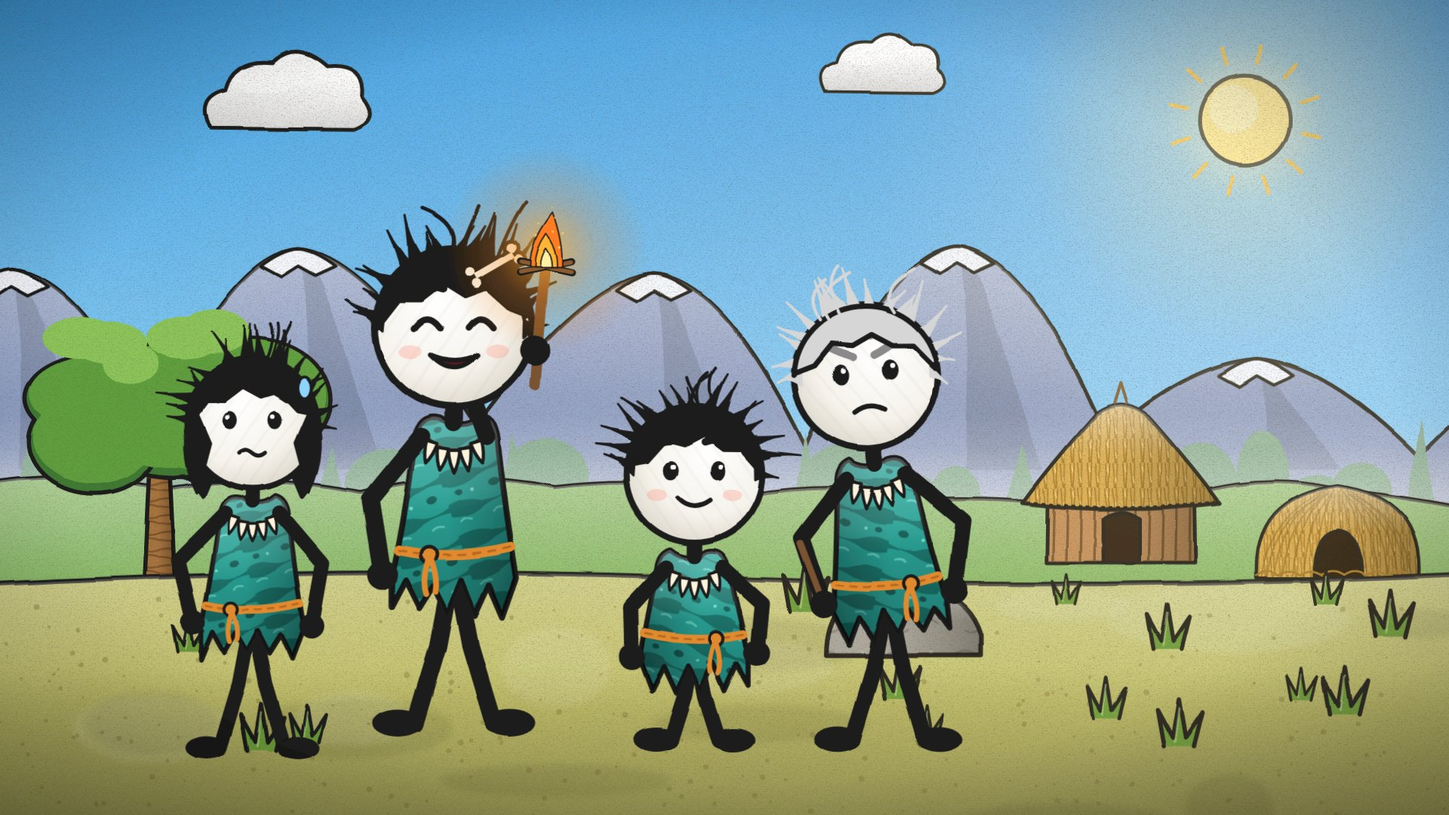
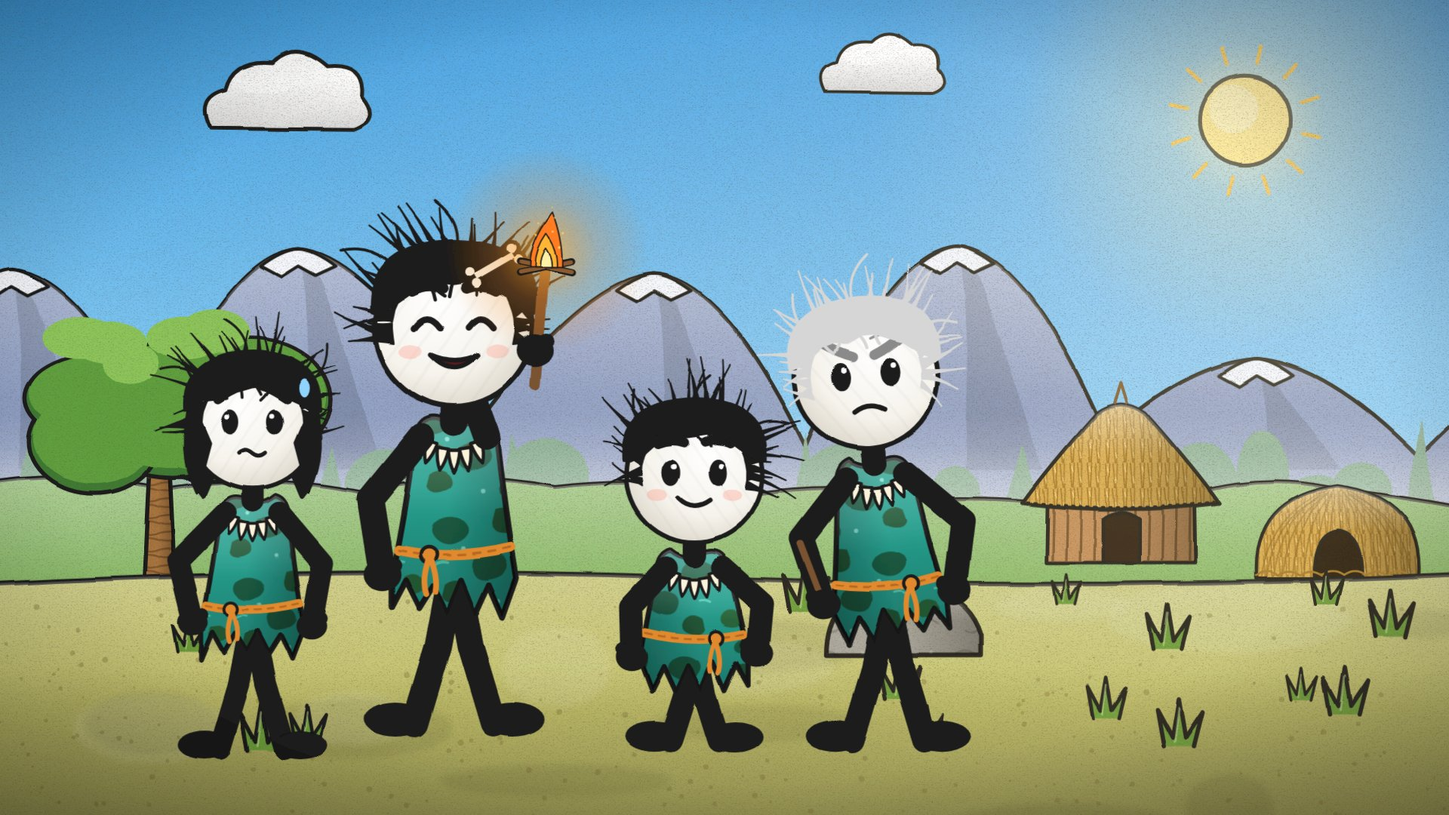
longform ink.js v2.1: reference-matching pass (tube limbs, mitten hands, oval eyes, wild hair, blotchy teal hide, kneel, focused face; DOF blur layers, speckle, warm grade, thatchHut, lashed poles, dirt, village backdrop; spear/basket/logs; swoosh/spinRings/dust) + side-by-side still
Claude-Session: https://claude.ai/code/session_01BPYB3p1FWoUGpnGH5tCKNK

Changed region(s): [[0.4062, 0.3056, 0.6875, 0.9167], [0.0938, 0.4889, 0.375, 0.9472], [0.0938, 0.2444, 0.4062, 0.55]]

diff --git a/longform/ink.js b/longform/ink.js
@@ -35,11 +35,13 @@ const DEFS = `<defs>
 <filter id="grainF" x="0" y="0" width="100%" height="100%"><feTurbulence type="fractalNoise" baseFrequency=".75" numOctaves="2" seed="7"/><feColorMatrix type="matrix" values="0 0 0 0 .1  0 0 0 0 .07  0 0 0 0 .04  3.2 0 0 0 -1.75"/></filter>
 <filter id="paperF" x="0" y="0" width="100%" height="100%"><feTurbulence type="fractalNoise" baseFrequency=".035" numOctaves="3" seed="4"/><feColorMatrix type="matrix" values="0 0 0 0 .45  0 0 0 0 .32  0 0 0 0 .2  1.4 0 0 0 -.62"/></filter>
 <filter id="soft" x="-30%" y="-30%" width="160%" height="160%"><feGaussianBlur stdDeviation="14"/></filter>
+<filter id="dof1" x="-5%" y="-5%" width="110%" height="110%"><feGaussianBlur stdDeviation="1.6"/></filter><filter id="dof2" x="-5%" y="-5%" width="110%" height="110%"><feGaussianBlur stdDeviation="3.2"/></filter><filter id="dof3" x="-5%" y="-5%" width="110%" height="110%"><feGaussianBlur stdDeviation="5.5"/></filter>
+<pattern id="speck" width="37" height="41" patternUnits="userSpaceOnUse"><circle cx="0.0" cy="0.0" r="0.90" fill="#2a1608" fill-opacity=".55"/><circle cx="7.3" cy="11.7" r="1.27" fill="#5a2e10" fill-opacity=".55"/><circle cx="14.6" cy="23.4" r="1.64" fill="#1b1209" fill-opacity=".55"/><circle cx="21.9" cy="35.1" r="2.01" fill="#2a1608" fill-opacity=".55"/><circle cx="29.2" cy="5.8" r="1.08" fill="#5a2e10" fill-opacity=".55"/><circle cx="36.5" cy="17.5" r="1.45" fill="#1b1209" fill-opacity=".55"/><circle cx="6.8" cy="29.2" r="1.82" fill="#2a1608" fill-opacity=".55"/><circle cx="14.1" cy="40.9" r="2.19" fill="#5a2e10" fill-opacity=".55"/><circle cx="21.4" cy="11.6" r="1.26" fill="#1b1209" fill-opacity=".55"/><circle cx="28.7" cy="23.3" r="1.63" fill="#2a1608" fill-opacity=".55"/><circle cx="36.0" cy="35.0" r="2.00" fill="#5a2e10" fill-opacity=".55"/><circle cx="6.3" cy="5.7" r="1.07" fill="#1b1209" fill-opacity=".55"/><circle cx="13.6" cy="17.4" r="1.44" fill="#2a1608" fill-opacity=".55"/><circle cx="20.9" cy="29.1" r="1.81" fill="#5a2e10" fill-opacity=".55"/><circle cx="28.2" cy="40.8" r="2.18" fill="#1b1209" fill-opacity=".55"/><circle cx="35.5" cy="11.5" r="1.25" fill="#2a1608" fill-opacity=".55"/><circle cx="17" cy="14" r="1" fill="#fff" fill-opacity=".35"/><circle cx="31" cy="36" r="1" fill="#ffe0a0" fill-opacity=".4"/></pattern>
 <filter id="soft4" x="-20%" y="-20%" width="140%" height="140%"><feGaussianBlur stdDeviation="4"/></filter>
 <pattern id="leo" width="46" height="46" patternUnits="userSpaceOnUse"><rect width="46" height="46" fill="#eea43a"/><ellipse cx="10" cy="11" rx="6" ry="4.5" fill="#5b3412"/><ellipse cx="32" cy="20" rx="5" ry="6" fill="#5b3412"/><ellipse cx="18" cy="35" rx="6.5" ry="4" fill="#5b3412"/><ellipse cx="40" cy="40" rx="4" ry="3.5" fill="#5b3412"/><circle cx="4" cy="27" r="2.5" fill="#5b3412"/></pattern>
 <pattern id="fur" width="30" height="30" patternUnits="userSpaceOnUse"><rect width="30" height="30" fill="#8d5b2f"/><path d="M4 4 l6 10 M16 2 l5 11 M10 17 l6 10 M23 15 l5 11" stroke="#5a3718" stroke-width="2.5" stroke-linecap="round"/></pattern>
 <pattern id="hide" width="40" height="34" patternUnits="userSpaceOnUse"><rect width="40" height="34" fill="#a8743f"/><path d="M3 6 q8 -4 14 2 M22 20 q8 -5 15 1 M6 26 q6 4 12 0" stroke="#7b5129" stroke-width="3" fill="none" stroke-linecap="round"/><circle cx="30" cy="7" r="2" fill="#c9965c"/><circle cx="12" cy="17" r="1.6" fill="#c9965c"/></pattern>
-<pattern id="teal" width="56" height="56" patternUnits="userSpaceOnUse" patternTransform="rotate(-18)"><rect width="56" height="56" fill="#2aa296"/><path d="M-4 9 Q14 3 28 10 T60 8 L60 17 Q42 13 28 19 T-4 18 Z" fill="#1c766d"/><path d="M-4 37 Q12 31 26 38 T60 36 L60 43 Q42 40 27 46 T-4 45 Z" fill="#1c766d"/><ellipse cx="44" cy="27" rx="5" ry="3.4" fill="#175f58"/><ellipse cx="12" cy="27" rx="3.5" ry="2.6" fill="#175f58"/><path d="M6 52 q5 -3 10 0 M36 52 q5 -3 10 0" stroke="#5fd0c0" stroke-width="2" fill="none" stroke-linecap="round"/><circle cx="24" cy="28" r="1.6" fill="#7fe0d2"/></pattern>
+<pattern id="teal" width="110" height="96" patternUnits="userSpaceOnUse" patternTransform="rotate(-8)"><rect width="110" height="96" fill="#27a08f"/><path d="M8 10 q14 -8 26 2 q8 10 -4 16 q-14 6 -22 -4 q-6 -8 0 -14 Z" fill="#1d5f45"/><path d="M62 6 q18 -2 22 10 q2 12 -12 12 q-16 0 -14 -12 Z" fill="#245a3a"/><path d="M40 44 q16 -6 24 4 q6 12 -8 16 q-18 4 -20 -8 q-2 -8 4 -12 Z" fill="#1d5f45"/><path d="M86 52 q12 -4 16 6 q2 10 -10 10 q-12 0 -10 -10 Z" fill="#2c6a3e"/><path d="M10 64 q12 -6 18 4 q4 10 -8 12 q-12 2 -14 -6 Z" fill="#245a3a"/><path d="M70 80 q10 -4 14 4 q2 8 -8 8 q-10 0 -8 -8 Z" fill="#1d5f45"/><circle cx="30" cy="36" r="2" fill="#7fe0cf"/><circle cx="96" cy="30" r="1.8" fill="#7fe0cf"/><circle cx="54" cy="84" r="2" fill="#7fe0cf"/><path d="M4 46 q6 -3 12 0 M76 40 q6 -3 12 0" stroke="#5fd0bc" stroke-width="2" fill="none"/></pattern>
 <pattern id="thatch" width="28" height="40" patternUnits="userSpaceOnUse"><rect width="28" height="40" fill="#d9a94e"/><path d="M3 0 l3 40 M10 0 l-2 40 M15 0 l4 40 M22 0 l-1 40" stroke="#a87728" stroke-width="2.2"/><path d="M6 6 l2 9 M19 22 l2 10" stroke="#f3cf7a" stroke-width="2"/></pattern>
 <pattern id="wood" width="60" height="24" patternUnits="userSpaceOnUse"><rect width="60" height="24" fill="#a7743f"/><path d="M0 7 q20 -4 34 1 t26 -1 M0 17 q16 3 30 -1 t30 2" stroke="#7a5129" stroke-width="2.4" fill="none"/></pattern>
 <pattern id="rockT" width="90" height="70" patternUnits="userSpaceOnUse"><rect width="90" height="70" fill="none"/><path d="M8 18 q14 -8 26 2 M50 44 q12 -6 24 4 M20 58 q8 4 16 -2" stroke="#000" stroke-opacity=".18" stroke-width="3" fill="none" stroke-linecap="round"/><circle cx="66" cy="16" r="2.4" fill="#fff" fill-opacity=".18"/><circle cx="34" cy="38" r="2" fill="#000" fill-opacity=".14"/></pattern>
@@ -130,7 +132,7 @@ function faceInk(face, t, seed, R, o = {}) {
       s += E(x, ey - 2, 14, 17, '#fff', 4) + C(x + look, ey, face === 'wide' ? 6 : 4.2, K, 0); continue;
     }
     if (face === 'happy') { s += P(`M${f1(x - 11)} ${f1(ey + 4)} Q${f1(x)} ${f1(ey - 11)} ${f1(x + 11)} ${f1(ey + 4)}`, 'none', 5.5); continue; }
-    s += E(x + look, ey, 7.5, 9.5, K, 0) + C(x + look - 2.4, ey - 3.6, 2.4, '#fff', 0);
+    s += E(x + look, ey + 2, 9, 13, K, 0) + C(x + look - 3, ey - 4, 2.6, '#fff', 0);
     if (face === 'sleepy' || face === 'tired') {                        // heavy top lid over the dot
       s += `<path d="M${f1(x - 13)} ${f1(ey - 2)} Q${f1(x)} ${f1(ey - 16)} ${f1(x + 13)} ${f1(ey - 2)} L${f1(x + 13)} ${f1(ey - 16)} L${f1(x - 13)} ${f1(ey - 16)} Z" fill="#f7f4ee"/>`;
       s += P(`M${f1(x - 12)} ${f1(ey - 1)} Q${f1(x)} ${f1(ey - 6)} ${f1(x + 12)} ${f1(ey - 1)}`, 'none', 4);
@@ -139,15 +141,16 @@ function faceInk(face, t, seed, R, o = {}) {
   }
   // brows (bold), per face: [inner dy, outer dy, arch]
   const B = { happy: [-6, -4, -6], smile: [-4, -3, -5], sleepy: [2, 4, -2], tired: [-6, 6, -1], worried: [-12, 2, -2], shocked: [-16, -12, -6], wide: [-14, -10, -5],
-    grumpy: [8, -6, 2], determined: [6, -4, 1], asleep: [2, 3, -2], pain: [-10, 2, 0], side: [0, 0, -3] }[face] || [0, 0, -3];
+    grumpy: [8, -6, 2], determined: [6, -4, 1], focused: [10, -8, 2], asleep: [2, 3, -2], pain: [-10, 2, 0], side: [0, 0, -3] }[face] || [0, 0, -3];
   for (const sd of [-1, 1]) {
     const x = sd * ex, y0 = ey - 24, xi = x - sd * 13, xo = x + sd * 13;
-    s += P(`M${f1(xi)} ${f1(y0 + B[0])} Q${f1(x)} ${f1(y0 + (B[0] + B[1]) / 2 + B[2])} ${f1(xo)} ${f1(y0 + B[1])}`, 'none', 7.5, '', browC);
+    s += P(`M${f1(xi)} ${f1(y0 + B[0])} Q${f1(x)} ${f1(y0 + (B[0] + B[1]) / 2 + B[2])} ${f1(xo)} ${f1(y0 + B[1])}`, 'none', 9.5, '', browC);
   }
   // mouth
   const my = R * .42, talk = o.talk;
   if (talk && face !== 'asleep' && face !== 'shocked') { const op = Math.abs(Math.sin(t * 11)) * 8; s += E(2, my, 9, 2.5 + op, '#5a1d1d', 4); }
   else if (face === 'happy') s += P(`M-20 ${f1(my - 5)} Q0 ${f1(my + 16)} 20 ${f1(my - 5)} Q0 ${f1(my + 4)} -20 ${f1(my - 5)} Z`, '#5a1d1d', 4);
+  else if (face === 'focused') s += P(`M-12 ${f1(my - 1)} Q4 ${f1(my + 8)} 16 ${f1(my - 4)}`, 'none', 4.5);
   else if (face === 'smile' || face === 'side') s += P(`M-15 ${f1(my - 3)} Q2 ${f1(my + 9)} 16 ${f1(my - 5)}`, 'none', 4.5);
   else if (face === 'shocked') s += E(0, my + 2, 10, 13 + Math.sin(t * 6) * 1.5, '#5a1d1d', 4);
   else if (face === 'wide') s += E(0, my + 2, 6, 7, '#5a1d1d', 4);
@@ -165,21 +168,21 @@ function hairInk(R, seed, col, t, style) {
   let s = '';
   if (style === 'none') return s;
   if (style === 'bun') return C(0, -R * 1.12, R * .34, col, 5) + P(`M${-R * .96} ${-R * .14} Q${-R * .86} ${-R * 1.04} 0 ${-R * 1.02} Q${R * .86} ${-R * 1.04} ${R * .96} ${-R * .14} Q${R * .5} ${-R * .62} 0 ${-R * .56} Q${-R * .5} ${-R * .62} ${-R * .96} ${-R * .14} Z`, col, 5);
-  const n = 19, sp = [];
+  const n = 34, sp = [];
   for (let i = 0; i < n; i++) {
-    const a = rad(-178 + i * (176 / (n - 1)) + (hash(i + seed) - .5) * 7), w = rad(5 + hash(i * 3 + seed) * 3);
-    const L = R * (1.24 + hash(i * 7 + seed) * .34) * (Math.abs(i - (n - 1) / 2) > 7 ? .9 : 1), bend = (hash(i * 5 + seed) - .5) * .35 + Math.sin(t * 2.2 + i) * .02;
-    const b1 = [Math.cos(a - w) * R * .9, Math.sin(a - w) * R * .9], b2 = [Math.cos(a + w) * R * .9, Math.sin(a + w) * R * .9], tip = [Math.cos(a + bend) * L, Math.sin(a + bend) * L];
-    const m = [Math.cos(a + bend * .5) * (R * .9 + L) / 2, Math.sin(a + bend * .5) * (R * .9 + L) / 2];
+    const a = rad(-190 + i * (200 / (n - 1)) + (hash(i + seed) - .5) * 9), w = rad(3.2 + hash(i * 3 + seed) * 3.4);
+    const L = R * (1.3 + hash(i * 7 + seed) * .48) * (Math.abs(i - (n - 1) / 2) > 11 ? .86 : 1), bend = (hash(i * 5 + seed) - .5) * .5 + Math.sin(t * 2.2 + i) * .02;
+    const r0 = R * .78, b1 = [Math.cos(a - w) * r0, Math.sin(a - w) * r0], b2 = [Math.cos(a + w) * r0, Math.sin(a + w) * r0], tip = [Math.cos(a + bend) * L, Math.sin(a + bend) * L];
+    const m = [Math.cos(a + bend * .4) * (r0 + L) / 2, Math.sin(a + bend * .4) * (r0 + L) / 2];
     sp.push(`M${f1(b1[0])} ${f1(b1[1])} Q${f1(m[0])} ${f1(m[1])} ${f1(tip[0])} ${f1(tip[1])} Q${f1(m[0])} ${f1(m[1])} ${f1(b2[0])} ${f1(b2[1])} Z`);
   }
-  s += `<path d="${sp.join(' ')}" fill="${col}" stroke="${col}" stroke-width="2" stroke-linejoin="round"/>`;
-  // crown cap: top arc + a ragged fringe across the forehead
-  let d = `M${f1(-R * .99)} ${f1(-R * .12)} A${R} ${R} 0 0 1 ${f1(R * .99)} ${f1(-R * .12)}`;
-  const fr = 7; for (let i = 0; i <= fr; i++) { const x = R * .97 - i * (1.94 * R / fr), y = -R * .58 + (i % 2 ? R * (.1 + hash(i + seed) * .08) : 0) + Math.pow(Math.abs(x) / R, 2) * R * .46; d += ` L${f1(x)} ${f1(y)}`; }
-  s += `<path d="${d} Z" fill="${col}" stroke="${K}" stroke-width="5" stroke-linejoin="round"/>`;
-  // stray strands
-  for (let i = 0; i < 4; i++) { const x = (hash(i * 11 + seed) - .5) * R * 1.1, y = -R * (1.05 + hash(i * 13 + seed) * .2); s += P(`M${f1(x)} ${f1(-R * .85)} Q${f1(x + 14)} ${f1(y - 10)} ${f1(x + 26 * (hash(i + seed) - .5) * 2)} ${f1(y - 24)}`, 'none', 3, '', col); }
+  s += `<path d="${sp.join(' ')}" fill="${col}" stroke="${col}" stroke-width="1.5" stroke-linejoin="round"/>`;
+  // crown: a dark mass on the top of the head with an uneven hairline + a few strands drooping on the forehead
+  let d = `M${f1(-R * 1.04)} ${f1(-R * .2)} Q${f1(-R * 1.1)} ${f1(-R * 1.08)} 0 ${f1(-R * 1.1)} Q${f1(R * 1.1)} ${f1(-R * 1.08)} ${f1(R * 1.04)} ${f1(-R * .2)}`;
+  const fr = 10; for (let i = 0; i <= fr; i++) { const x = R * .95 - i * (1.9 * R / fr), y = -R * .56 + Math.pow(Math.abs(x) / R, 2) * R * .42 + (hash(i + seed) - .5) * R * .1; d += ` L${f1(x)} ${f1(y)}`; }
+  s += `<path d="${d} Z" fill="${col}" stroke="${col}" stroke-width="3" stroke-linejoin="round"/>`;
+  for (let i = 0; i < 5; i++) { const x = (i - 2) * R * .22 + (hash(i * 11 + seed) - .5) * 10, y0 = -R * .62; s += P(`M${f1(x)} ${f1(y0)} q${f1((hash(i + seed) - .5) * 14)} ${f1(R * .12)} ${f1((hash(i * 3 + seed) - .5) * 18)} ${f1(R * (.16 + hash(i * 5 + seed) * .12))}`, 'none', 3, '', col); }
+  for (let i = 0; i < 3; i++) { const a = rad(-150 + i * 50 + hash(i * 9 + seed) * 10), L = R * (1.45 + hash(i * 13 + seed) * .3); s += P(`M${f1(Math.cos(a) * R * .8)} ${f1(Math.sin(a) * R * .8)} Q${f1(Math.cos(a + .2) * L * .8)} ${f1(Math.sin(a + .2) * L * .8)} ${f1(Math.cos(a - .1) * L)} ${f1(Math.sin(a - .1) * L)}`, 'none', 2.4, '', col); }
   if (style === 'long') for (const sd of [-1, 1]) s += P(`M${f1(sd * R * .92)} ${f1(-R * .3)} Q${f1(sd * R * 1.18)} ${f1(R * .4)} ${f1(sd * R * .86)} ${f1(R * 1.05)} L${f1(sd * R * .66)} ${f1(R * .3)} Z`, col, 4);
   return s;
 }
@@ -188,7 +191,7 @@ function headInk(o, face, t, seed, R = 68) {
   const nean = !!o.nean, hc = o.hairCol || (o.elder ? '#d6d6d6' : K), style = o.hair === 'long' ? 'long' : o.hair === 'bun' ? 'bun' : o.hair === 'none' ? 'none' : 'ink';
   let s = '';
   if (style === 'long' || nean) for (const sd of [-1, 1]) s += P(`M${f1(sd * R * .9)} ${f1(-R * .2)} Q${f1(sd * R * 1.12)} ${f1(R * .7)} ${f1(sd * R * .76)} ${f1(R * 1.12)} L${f1(sd * R * .5)} ${f1(R * .5)} Z`, nean ? '#6b4423' : hc, 5);
-  s += C(0, 0, R, o.skin || (nean ? '#e3c39b' : 'url(#headG)'), 6);
+  s += C(0, 0, R, o.skin || (nean ? '#e3c39b' : 'url(#headG)'), 4.5);
   s += `<circle cx="0" cy="0" r="${R - 3}" fill="url(#hatch)" opacity=".18"/>`;                      // a hint of paper tooth
   if (nean) s += P(`M${-R * .7} ${-R * .42} Q0 ${-R * .62} ${R * .7} ${-R * .42}`, 'none', 8);
   if (o.elder) s += P(`M${-R * .5} ${-R * .52} q14 -5 26 0 M${R * .24} ${-R * .52} q14 -5 26 0`, 'none', 2.5, 'opacity=".45"');
@@ -203,9 +206,9 @@ function headInk(o, face, t, seed, R = 68) {
 
 // ---------- person ----------
 // o: {face, hair, hairclip, tunic, kid, elder, nean, pose, blanket, zzz, L/R hand targets (body coords), hold:{R:'stick'...}, talk, flip, skin, seed}
-const PS = 1.3, HR = 68, LW = 15;
+const PS = 1.3, HR = 68, LW = 23;
 const jaw = (x, y, s) => [x + 40 * s * PS, y - 312 * s * PS];
-const handDot = (x, y, r = 13) => C(x, y, r, K, 0);
+const handDot = (x, y, r = 16) => E(x, y, r, r * .88, K, 0) + C(x + r * .62, y - r * .5, r * .42, K, 0);
 function tunicInk(kind, top, hipY, seed) {
   if (kind === 'lab' || kind === 'shirt' || kind === 'coat') {
     const fill = kind === 'lab' ? '#ffffff' : kind === 'shirt' ? '#5c8fd6' : '#7cc4c0', b = hipY + (kind === 'lab' ? 60 : 20);
@@ -256,9 +259,9 @@ function person(x, y, s, o = {}, t = 0) {
   const breathe = Math.sin(t * 2.2 + seed) * 2;
   let out = '';
   if (pose === 'lie' || pose === 'curl') return G(lying(o, face, t, seed, pose, kid), `translate(${f1(x)} ${f1(y)}) scale(${o.flip ? -s : s} ${s})`);
-  const lf = kid ? .7 : 1, hipY = (pose === 'sit' ? -95 : -150) * lf;
+  const lf = kid ? .7 : 1, hipY = (pose === 'sit' ? -95 : pose === 'kneel' ? -132 : -150) * lf;
   // legs (thick ink) with round feet
-  const foot = (fx, fy, dir) => E(fx + dir * 14, fy - 9, 22, 12, K, 0);
+  const foot = (fx, fy, dir) => E(fx + dir * 16, fy - 12, 28, 15, K, 0);
   if (pose === 'walk') {
     const ph = t * (o.walkSpeed || 7) + seed, a = Math.sin(ph) * 30;
     for (const [ang, dir] of [[a, 1], [-a, 1]]) {
@@ -266,6 +269,9 @@ function person(x, y, s, o = {}, t = 0) {
       const fx = kx + Math.sin(rad(ang * .6 - 10)) * 75 * lf, fy = Math.min(0, ky + 75 * lf);
       out += P(`M0 ${f1(hipY)} L${f1(kx)} ${f1(ky)} L${f1(fx)} ${f1(fy - 8)}`, 'none', LW) + foot(fx, fy, dir);
     }
+  } else if (pose === 'kneel') {
+    out += P(`M0 ${f1(hipY)} L${-36 * lf} -14 L${-130 * lf} -12`, 'none', LW) + E(-140 * lf, -14, 24, 14, K, 0);
+    out += P(`M0 ${f1(hipY)} L${84 * lf} ${f1(hipY + 6)} L${92 * lf} -10`, 'none', LW) + foot(92 * lf, 0, 1);
   } else if (pose === 'sit') {
     out += P(`M0 ${f1(hipY)} L${70 * lf} ${f1(hipY + 5)} L${70 * lf} -8`, 'none', LW) + foot(70 * lf, 0, 1) + P(`M0 ${f1(hipY)} L${58 * lf} ${f1(hipY + 12)} L${48 * lf} -8`, 'none', LW) + foot(48 * lf, 0, 1);
   } else {
@@ -555,3 +561,52 @@ function cross(x, y, p = 1, sz = 70) { if (p <= 0) return ''; const a = ease(p *
 function check(x, y, p = 1) { if (p <= 0) return ''; return P(`M${x - 40} ${y} L${x - 10} ${y + 30} L${x + 50} ${y - 40}`, 'none', 16, `stroke-dasharray="200" stroke-dashoffset="${f1(200 * (1 - ease(p)))}"`, '#3aa655'); }
 function card(x, y, w, h, fill = '#fffdf6', p = 1, rot = 0) { if (p <= 0) return ''; return popAt(x, y, p, P(`M${x - w / 2} ${y - h / 2} L${x + w / 2} ${y - h / 2} L${x + w / 2} ${y + h / 2} L${x - w / 2} ${y + h / 2} Z`, fill, 7, `transform="rotate(${rot} ${x} ${y})"`)); }
 function lens(x, y, r, inner, p = 1) { if (p <= 0) return ''; const id = 'lc' + Math.round(x) + Math.round(y); return popAt(x, y, p, `<clipPath id="${id}"><circle cx="${x}" cy="${y}" r="${r}"/></clipPath>` + C(x, y, r, '#eef6ff', 0) + G(inner, '', `clip-path="url(#${id})"`) + C(x, y, r, 'none', 12) + Ln(x + r * .7, y + r * .7, x + r * 1.15, y + r * 1.15, 26)); }
+
+// ---------- v2.1: reference-matching kit (depth of field, stipple, lashed wood, foreground props, motion marks) ----------
+// fake depth of field: wrap far layers (n = 1 slight, 2 mid, 3 far)
+const blurLayer = (c, n = 2) => `<g filter="url(#dof${n})">${c}</g>`;
+// the reference's dark speckle on any path (wood, thatch, dirt, rock)
+const speckle = (d, op = 1) => `<path d="${d}" fill="url(#speck)" stroke="none" opacity="${op}"/>`;
+// warm late-afternoon grade over the whole frame
+const warmGrade = (a = .22) => `<rect width="1920" height="1080" fill="#ffb25a" opacity="${a}" style="mix-blend-mode:soft-light"/>`;
+function lake(y = 640, x0 = 900, x1 = 1960, col = '#4f9fd6') { const d = `M${x0} ${y} Q${(x0 + x1) / 2} ${y - 14} ${x1} ${y - 4} L${x1} ${y + 60} Q${(x0 + x1) / 2} ${y + 50} ${x0 + 60} ${y + 40} Q${x0 - 20} ${y + 24} ${x0} ${y} Z`; let s = P(d, col, 4) + SH(d, 'litTop'); for (let i = 0; i < 9; i++) { const x = x0 + 80 + hash(i) * (x1 - x0 - 160), yy = y + 8 + hash(i * 3) * 36; s += Ln(x, yy, x + 30 + hash(i * 5) * 50, yy, 3, '#dff3ff'); } return s; }
+function pineForest(y = 660, x0 = -40, x1 = 1960, n = 30, cols = ['#2f5f48', '#3f7a58', '#4f8f66'], seed = 3) { let s = ''; for (let i = 0; i < n; i++) { const x = x0 + (i + hash(i + seed) * .6) * (x1 - x0) / n, sc = .45 + hash(i * 3 + seed) * .4; s += G(P('M-50 0 L0 -150 L50 0 Z', cols[i % 3], 4) + P('M-40 -60 L0 -200 L40 -60 Z', cols[(i + 1) % 3], 4) + SH('M-50 0 L0 -200 L50 0 Z', 'shadeR'), `translate(${f1(x)} ${f1(y + hash(i * 7 + seed) * 20)}) scale(${f1(sc * 100) / 100})`); } return s; }
+// a wooden pole between two points (wood grain + speckle + outline); lashing() = rope wraps at a point
+function pole(x1, y1, x2, y2, w = 26, col = '#a7743f') { const a = Math.atan2(y2 - y1, x2 - x1), L = Math.hypot(x2 - x1, y2 - y1), d = `M0 ${-w / 2} L${f1(L)} ${-w / 2 * .9} Q${f1(L + w * .3)} 0 ${f1(L)} ${w / 2 * .9} L0 ${w / 2} Q${-w * .3} 0 0 ${-w / 2} Z`; return G(P(d, col, 5) + `<path d="${d}" fill="url(#wood)" opacity=".55"/>` + SH(d, 'darkBot') + speckle(d) + `<ellipse cx="${f1(L)}" cy="0" rx="${f1(w * .22)}" ry="${f1(w * .42)}" fill="#d8b07a" stroke="${K}" stroke-width="3"/>`, `translate(${f1(x1)} ${f1(y1)}) rotate(${f1(a * 180 / Math.PI)})`); }
+function lashing(x, y, w = 30, ang = 0, col = '#c98a3e') { let s = ''; for (let i = 0; i < 4; i++) s += P(`M${-w / 2} ${-9 + i * 6} Q0 ${-5 + i * 6} ${w / 2} ${-9 + i * 6}`, 'none', 6, '', col) + P(`M${-w / 2} ${-9 + i * 6} Q0 ${-5 + i * 6} ${w / 2} ${-9 + i * 6}`, 'none', 1.5, 'opacity=".5"'); return G(s, `translate(${f1(x)} ${f1(y)}) rotate(${ang})`); }
+// the reference hut: mud-and-wattle wall, lashed timber frame, a deep thatched roof with hanging straw strands, dark doorway
+function thatchHut(x, y, s = 1, o = {}) {
+  const wall = 'M-260 0 L-250 -230 L250 -230 L260 0 Z', door = 'M-80 0 L-80 -190 L80 -190 L80 0 Z', roof = 'M-340 -190 Q-240 -330 -60 -440 Q0 -470 60 -440 Q240 -330 340 -190 Q0 -160 -340 -190 Z';
+  let g = P(wall, '#b98a5a', 6) + speckle(wall) + SH(wall, 'shadeR') + P(door, '#2a1a10', 5) + `<path d="M-64 0 L-64 -170 L64 -170 L64 0 Z" fill="#140c07" opacity=".7"/>`;
+  g += pole(-250, 0, -250, -250, 30) + pole(250, 0, 250, -250, 30) + pole(-90, 0, -90, -210, 22) + pole(90, 0, 90, -210, 22) + pole(-280, -205, 280, -205, 24) + lashing(-250, -205, 40, 90) + lashing(250, -205, 40, 90) + lashing(-90, -205, 30, 90) + lashing(90, -205, 30, 90);
+  g += P(roof, 'url(#thatch)', 6) + SH(roof, 'litTop') + SH(roof, 'shadeR') + speckle(roof);
+  for (let i = 0; i < 70; i++) { const u = i / 69, xx = -330 + u * 660, yy = -190 + Math.sin(u * Math.PI) * 30 + hash(i) * 6, L = 24 + hash(i * 3) * 40; g += Ln(xx, yy - 4, xx + (hash(i * 5) - .5) * 14, yy + L, 3, ['#c7932f', '#e8bb5a', '#9a6c22'][i % 3]); }
+  for (let i = 0; i < 26; i++) { const u = hash(i * 7), v = hash(i * 11); g += Ln(-200 + u * 400, -420 + v * 200, -196 + u * 400 + (hash(i) - .5) * 30, -380 + v * 200, 2.5, '#f3cf7a'); }
+  return G(g, `translate(${x} ${y}) scale(${o.flip ? -s : s} ${s})`);
+}
+// dirt + stone ground with stipple, pebbles and sawdust
+function dirt(y = 760, col = '#b88a52', seed = 4) {
+  const d = `M-20 ${y} Q600 ${y - 14} 1200 ${y + 4} T1940 ${y - 8} L1940 1100 L-20 1100 Z`;
+  let s = P(d, col, 5) + SH(d, 'darkBot') + speckle(d) + blotches(0, y, 1920, 1080 - y, '#6a3a18', 16, seed, .22) + blotches(0, y, 1920, 380, '#f6d090', 10, seed + 3, .22) + blotches(0, y + 100, 1920, 300, '#a86a2a', 8, seed + 7, .2);
+  for (let i = 0; i < 12; i++) { const px = hash(i + seed) * 1920, py = y + 30 + hash(i * 3 + seed) * (1080 - y), r = 6 + hash(i * 5) * 12; s += P(`M${f1(px - r * 1.5)} ${f1(py + r * .5)} Q${f1(px - r * 1.4)} ${f1(py - r)} ${f1(px)} ${f1(py - r)} Q${f1(px + r * 1.5)} ${f1(py - r * .8)} ${f1(px + r * 1.5)} ${f1(py + r * .5)} Z`, '#a9a39a', 3) + `<ellipse cx="${f1(px - r * .3)}" cy="${f1(py - r * .3)}" rx="${f1(r * .6)}" ry="${f1(r * .35)}" fill="#fff" opacity=".3"/>`; }
+  for (let i = 0; i < 80; i++) { const px = hash(i * 13 + seed) * 1920, py = y + 20 + hash(i * 17 + seed) * (1080 - y), a = hash(i) * 3; s += Ln(px, py, px + Math.cos(a) * 9, py + Math.sin(a) * 5, 2.4, '#f2d59a'); }
+  return s;
+}
+// foreground props (sharp): spear lying at an angle, woven basket (fill: 'tinder'|'none'), log pile
+function spear(x, y, s = 1, rot = 0) { const head = 'M300 -22 L420 0 L300 22 Q286 0 300 -22 Z'; return G(pole(-300, 0, 300, 0, 26, '#9a6a3a') + P(head, '#a9adb3', 5) + `<path d="M300 -22 L360 -4 L310 0 Z" fill="#fff" opacity=".35"/><path d="M300 22 L380 4 L320 4 Z" fill="#000" opacity=".2"/>` + speckle(head) + lashing(290, 0, 34, 90) + lashing(-120, 0, 30, 90), `translate(${x} ${y}) rotate(${rot}) scale(${s})`); }
+function basket(x, y, s = 1, fill = 'tinder') { const b = 'M-120 -70 Q-110 40 0 46 Q110 40 120 -70 Z'; let g = ''; if (fill === 'tinder') for (let i = 0; i < 40; i++) { const a = hash(i) * Math.PI, r = 30 + hash(i * 3) * 80; g += Ln(-100 + hash(i * 5) * 200, -70 - hash(i * 7) * 30, -100 + hash(i * 5) * 200 + Math.cos(a) * 40, -76 - hash(i * 7) * 30 - Math.sin(a) * 16, 2.6, ['#e9cf8a', '#cfa860', '#f7e2a8'][i % 3]); void r; }
+  g += P(b, '#a8743c', 6); for (let i = 0; i < 5; i++) g += P(`M-118 ${-56 + i * 22} Q0 ${-44 + i * 24} 118 ${-56 + i * 22}`, 'none', 3, 'opacity=".55"'); for (let i = 0; i < 9; i++) g += Ln(-100 + i * 25, -66, -88 + i * 22, 38, 2.4, '#7a4f22'); g += speckle(b) + SH(b, 'shadeR') + E(0, -70, 120, 16, 'none', 6); return G(g, `translate(${x} ${y}) scale(${s})`); }
+function logs(x, y, s = 1, n = 3) { let g = ''; for (let i = 0; i < n; i++) { const yy = -i * 40, xx = (i % 2) * 40; g += pole(xx - 160, yy, xx + 140, yy - 4, 46, '#9b6a3a'); } return G(g, `translate(${x} ${y}) scale(${s})`); }
+// motion: white swoosh arcs (a0..a1 degrees on an ellipse), spin rings around a vertical spindle, dust puffs
+function swoosh(x, y, rx, ry, a0, a1, w = 6) { const p = (a) => [x + Math.cos(rad(a)) * rx, y + Math.sin(rad(a)) * ry]; let d = `M${f1(p(a0)[0])} ${f1(p(a0)[1])}`; for (let a = a0; a <= a1; a += 6) d += ` L${f1(p(a)[0])} ${f1(p(a)[1])}`; return P(d, 'none', w + 4, 'opacity=".55"') + P(d, 'none', w, '', '#fff'); }
+function spinRings(x, y, w = 60, t = 0, n = 3, gap = 40) { let s = ''; for (let i = 0; i < n; i++) { const off = (t * 900 + i * 120) % 360, yy = y + i * gap; s += swoosh(x, yy, w, w * .22, off, off + 230, 4); } return s; }
+function dust(x, y, s = 1, t = 0) { let g = ''; for (let i = 0; i < 9; i++) { const ph = (t * 1.3 + hash(i)) % 1, dx = (hash(i * 3) - .5) * 140 * ph + (hash(i * 5) - .5) * 30, dy = -ph * 60 * hash(i * 7); g += `<circle cx="${f1(dx)}" cy="${f1(dy)}" r="${f1(6 + ph * 16)}" fill="#e8d8b8" opacity="${f1((1 - ph) * 60) / 100}"/>`; } for (let i = 0; i < 14; i++) { const ph = (t * 2 + hash(i * 9)) % 1; g += `<circle cx="${f1((hash(i * 11) - .5) * 120 * ph)}" cy="${f1(-ph * 30 + ph * ph * 40)}" r="1.8" fill="#6a4a2a" opacity="${f1(1 - ph)}"/>`; } return G(g, `translate(${x} ${y}) scale(${s})`); }
+// the reference village backdrop (no foreground): warm sky + clouds, blurred snowy blue mountains + lake + pine forest, mid huts + trees, dirt ground
+function village(t = 0, o = {}) {
+  let s = sky('skyDay') + lightWash(260, 0, 1500, 'sunL', .5);
+  s += blurLayer(cloud(1200, 120, 1.7, t * 0) + cloud(1700, 200, 1.3, t * 0) + cloud(500, 90, 1.2, t * 0), 1);
+  s += blurLayer(mountains(430, '#5f7fc4', true, 11) + haze(470, 160, false, .7) + lake(540, 940, 1960, '#3f95d6') + pineForest(590, 860, 1960, 24, ['#2f6a4e', '#3f7f5a', '#4f9066'], 4), 3);
+  s += blurLayer(oak(1180, 640, .9) + oak(1880, 660, 1.1) + thatchHut(1600, 660, .45) + thatchHut(1280, 690, .35, { flip: 1 }) + hills(640, '#88a85a', 8, 20), 2);
+  s += dirt(700, '#c58a48');
+  return s;
+}

diff --git a/longform/inkdemo/scenes.js b/longform/inkdemo/scenes.js
@@ -12,4 +12,15 @@ demo_props: (lt, D, on, t) => caveInside(t, true) + campfire(1720, 990, .7, t)
   + ['sleepy', 'happy', 'tired', 'worried', 'shocked', 'grumpy', 'asleep'].map((f, i) => G(headInk({ hairclip: i === 0 ? 'bone' : '' }, f, t, i + 1, 58), `translate(${130 + i * 132} 140) scale(.85)`) + hand(f, 130 + i * 132, 250, 32, '#fff')).join('')
   + ashLayer(460, 470, 640, .8) + scienceCard(1460, 250, '18 MIN', 'awake at night', 1, -3, .8) + wristband(1580, 470, 1.1, { txt: '6:42' }, t) + clock(1180, 520, .8, 4.2) + hourglass(1440, 720, .7, .6, t)
   + camphor(260, 1010, .9, -10) + nestTree(820, 1080, .62, t, { chimp: 1 }) + fireLight(1720, 950, 700, t) + vignette(),
+// the owner's reference composition, redrawn in code: kneeling bow-drill fire-starting in front of a thatched hut, village + lake behind
+demo_ref: (lt, D, on, t) => { const bx = 640, by = 1040, k = 1.72 * 1.3, B = (wx, wy) => [(wx - bx) / k, (wy - by) / k];
+  const sx = 990, top = 520, base = 940, d = Math.sin(t * 14) * 70;
+  return village(t) + thatchHut(1700, 700, .7) + rock(1450, 820, 260, 120, '#b8a48a') + thatchHut(190, 900, 1.9) + rock(160, 990, 300, 120, '#b8a48a')
+  + logs(1040, 1050, 1.1, 1) + pole(820, base + 30, 1260, base + 40, 60, '#b07a42') + pole(840, base - 20, 1230, base - 12, 54, '#a7743f')
+  + moss(bx, by, 1.72, { pose: 'kneel', face: 'focused', L: B(330 + d, 700), R: B(sx - 16, top + 10), seed: 3 }, t)
+  + pole(sx, top + 10, sx, base, 30, '#b07a42') + `<ellipse cx="${sx}" cy="${top}" rx="70" ry="24" fill="#9b6a3a" stroke="${K}" stroke-width="6"/>` + P(`M${sx - 14} ${base} L${sx} ${base + 50} L${sx + 14} ${base} Z`, '#a9adb3', 5)
+  + pole(300 + d, 700, 1500 + d, 740, 36, '#a7743f') + lashing(1490 + d, 740, 40, 90) + lashing(330 + d, 702, 40, 90) + Ln(320 + d, 690, sx, 650, 3.5, '#f0e6d0') + Ln(sx, 700, 1480 + d, 724, 3.5, '#f0e6d0') + lashing(sx, 676, 36, 90, '#e8dcc0')
+  + spinRings(sx, 560, 90, t, 4, 90) + swoosh(260 + d, 700, 90, 70, 140, 250, 7) + swoosh(1560 + d, 740, 90, 70, -70, 40, 7) + dust(sx, base + 40, 1.6, t)
+  + spear(300, 1040, 1.3, 7) + spear(1500, 960, 1.05, -6) + basket(1800, 1080, 1.6) + warmGrade(.3) + grain(.7) + vignette(); },
+
 };

diff --git a/handoff/outbox/H1.md b/handoff/outbox/H1.md
@@ -42,3 +42,22 @@
   longform/inkdemo/stills/H1_ink_day.jpg
   longform/inkdemo/stills/H1_ink_night.jpg
   longform/inkdemo/stills/H1_ink_props.jpg
+- 2026-10-31T13:45Z H1: ink.js v2.1 "match the reference" pass, pushed to claude/halloween-h1. Side-by-side (reference | ours): longform/inkdemo/stills/H1_ref_vs_ours.jpg. Our redraw of the reference shot: longform/inkdemo/stills/H1_ink_ref_ours.jpg (inkdemo scene demo_ref, t=14). The day, night and props stills are re-rendered with the new look.
+  CHARACTER:
+  - Thick solid-black tube limbs (LW 23), black mitten hands with a thumb, bigger rounded feet, a thinner head outline.
+  - Solid black oval eyes with a tiny highlight; thicker brows. New face 'focused' (angled brows + small smile, like the reference).
+  - Hair: a black crown mass with ~34 separate wild spiky strands.
+  - Tunic: teal with dark-green hide blotches (no stripes), ragged hem, orange tied sash, cream tooth necklace.
+  - New pose 'kneel'.
+  PAINTERLY:
+  - blurLayer(c, 1|2|3) = fake depth of field for far layers.
+  - speckle(d) = the dark stipple fill on wood, thatch, dirt and rock.
+  - warmGrade() = late-afternoon warmth; grain(op) is heavier.
+  - lake(), pineForest().
+  - thatchHut() = reference hut: lashed timber frame, deep thatch with hanging straw strands, dark doorway.
+  - pole() / lashing() = wooden poles lashed with rope.
+  - dirt() = stone-and-dirt ground with stipple, pebbles and sawdust.
+  - village(t) = the reference backdrop: blurred snowy blue mountains, lake, pines, mid huts and trees.
+  FOREGROUND PROPS (sharp): spear (flint head + rope lashing), basket (with tinder), logs.
+  MOTION: swoosh(x,y,rx,ry,a0,a1), spinRings(x,y,w,t), dust(x,y,s,t).
+  GAP vs the reference: the reference's background detail (photo-dense foliage, rock micro-texture) is beyond what plain SVG can match. Character, palette, stipple, framing and props now read as the same family. Next iteration could add denser foliage clumps and textured rock walls if the lead wants.
